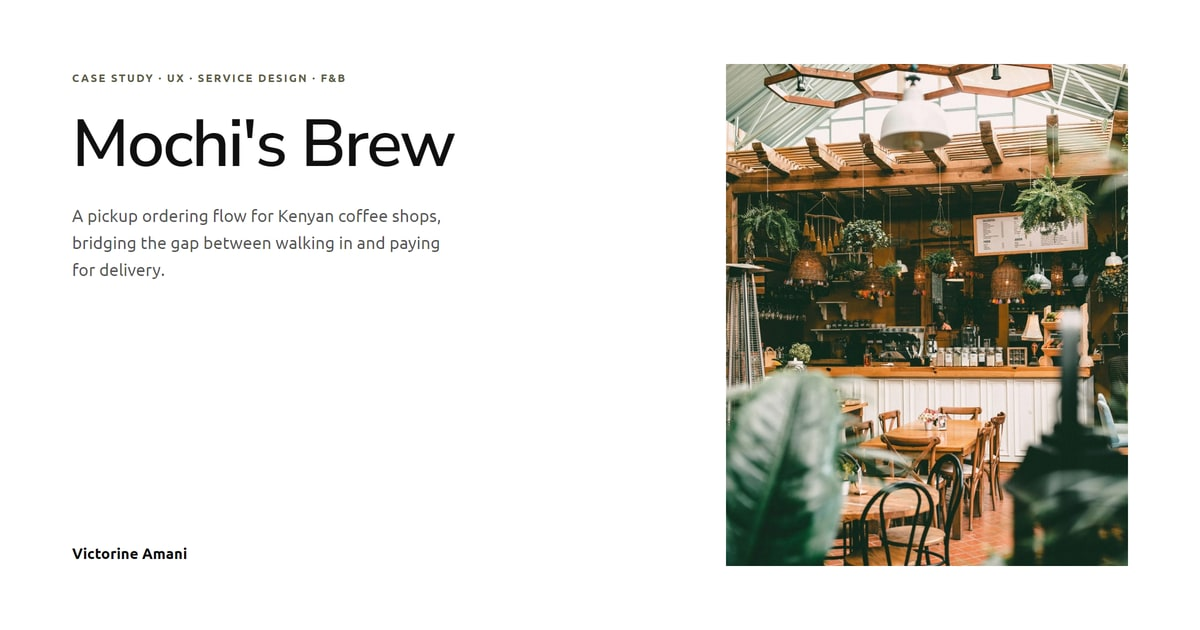
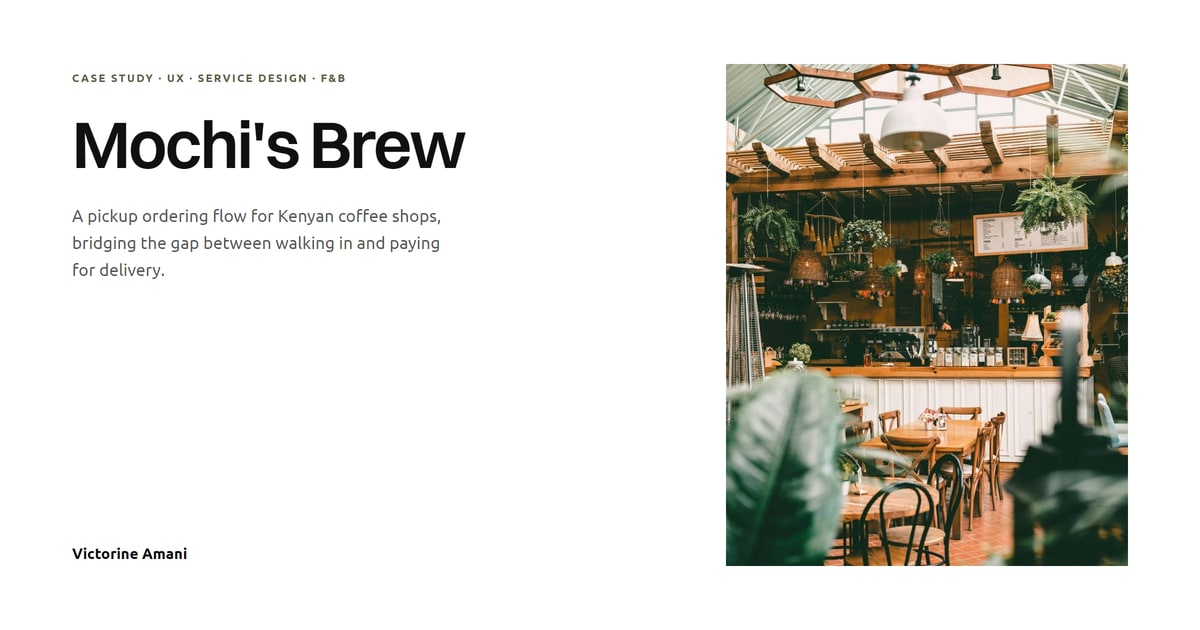
Headings in Switzer
Switzer is not a Google face, so the display type comes from Fontshare and
the text stays on Google — two stylesheets in the head and two origins
warmed rather than one. Only the 600 is fetched, which is the only weight
the heading steps ask for.

Verified loading rather than silently falling through to Ubuntu: the face
reports loaded at 600, and the same string measures 409 pixels in Switzer
against 416 in the fallback.

All seven share cards redrawn.

Changed region(s): [[0.0617, 0.181, 0.4008, 0.2714]]

diff --git a/src/styles.css b/src/styles.css
@@ -46,9 +46,9 @@
      media on the homepage. #e6e6cc. */
   --ground: oklch(0.918 0.034 107.1);
 
-  /* Headings only. Nunito Sans has real weights, so the heading steps set the
+  /* Headings only. Switzer has real weights, so the heading steps set the
      600 that names things everywhere else rather than a face's only option. */
-  --font-display: "Nunito Sans", var(--font-sans);
+  --font-display: "Switzer", var(--font-sans);
 
   /* Hairline used by the work-history file tabs and their panels. */
   --file-line: color-mix(in oklab, var(--ink) 24%, transparent);
@@ -77,8 +77,13 @@
 }
 
 /*
- * Text is set in Ubuntu, headings in Nunito Sans — both from Google Fonts, so
- * nothing here needs a licence.
+ * Text is set in Ubuntu, headings in Switzer. Ubuntu comes from Google Fonts
+ * and Switzer from Fontshare, so there are two stylesheets in the head and
+ * neither needs a licence bought.
+ *
+ * Switzer is the third display face this site has had, after DotGothic16 and
+ * Nunito Sans. Anything that has to know the name reads --font-display; the
+ * only places that spell it out are the link in the head and the note here.
  *
  * DotGothic16 set the headings before this. It is a pixel face, and a heading
  * is the one place on a page that has to be read at a glance rather than
@@ -94,7 +99,7 @@
  * thirteen sizes and six near-identical label styles before this.
  *
  * The three heading steps also carry the family and weight: headings are set
- * in Nunito Sans at 600, the same weight the text steps use to name things.
+ * in Switzer at 600, the same weight the text steps use to name things.
  * The four text steps fix size, line height and tracking only, and their
  * weight stays an explicit font-* class at the call site: 400 for running
  * text, 600 for anything that names something, which Ubuntu renders as Bold.

diff --git a/src/routes/__root.tsx b/src/routes/__root.tsx
@@ -96,9 +96,17 @@ export const Route = createRootRouteWithContext<{ queryClient: QueryClient }>()(
       },
       { rel: "preconnect", href: "https://fonts.googleapis.com" },
       { rel: "preconnect", href: "https://fonts.gstatic.com", crossOrigin: "anonymous" },
+      /* Switzer is not a Google face, so the display type comes from Fontshare
+         and the text from Google — two origins to warm rather than one. */
+      { rel: "preconnect", href: "https://api.fontshare.com" },
+      { rel: "preconnect", href: "https://cdn.fontshare.com", crossOrigin: "anonymous" },
       {
         rel: "stylesheet",
-        href: "https://fonts.googleapis.com/css2?family=Nunito+Sans:wght@600&family=Ubuntu:wght@400;500;700&family=Caacupe+One&display=swap",
+        href: "https://fonts.googleapis.com/css2?family=Ubuntu:wght@400;500;700&family=Caacupe+One&display=swap",
+      },
+      {
+        rel: "stylesheet",
+        href: "https://api.fontshare.com/v2/css?f%5B%5D=switzer@600&display=swap",
       },
       { rel: "icon", href: "/favicon.ico", type: "image/x-icon" },
     ],
